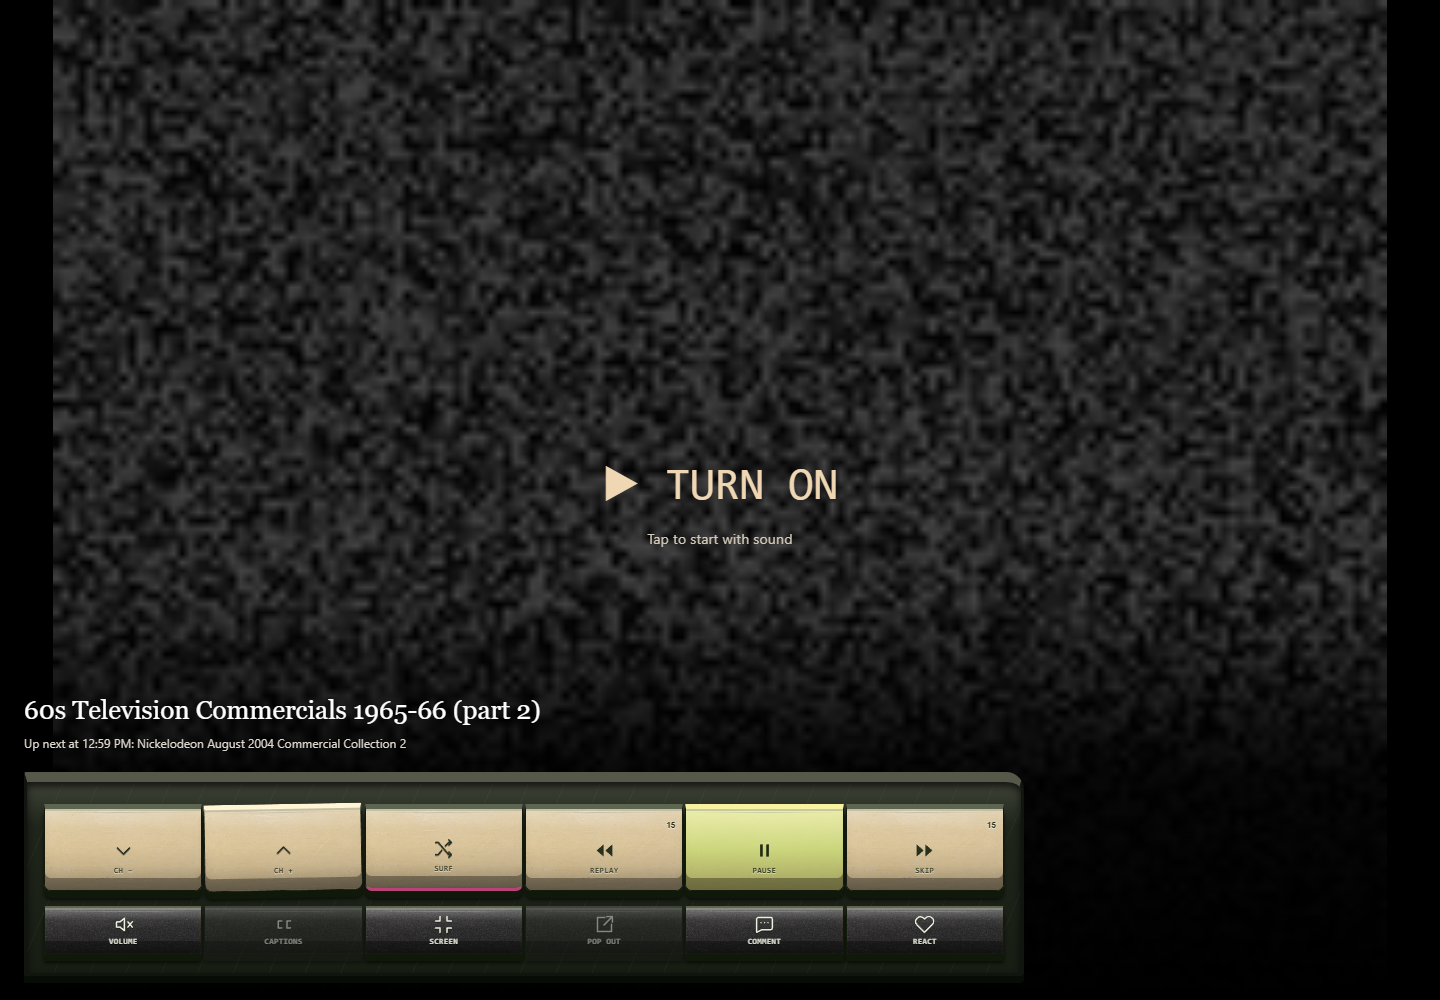
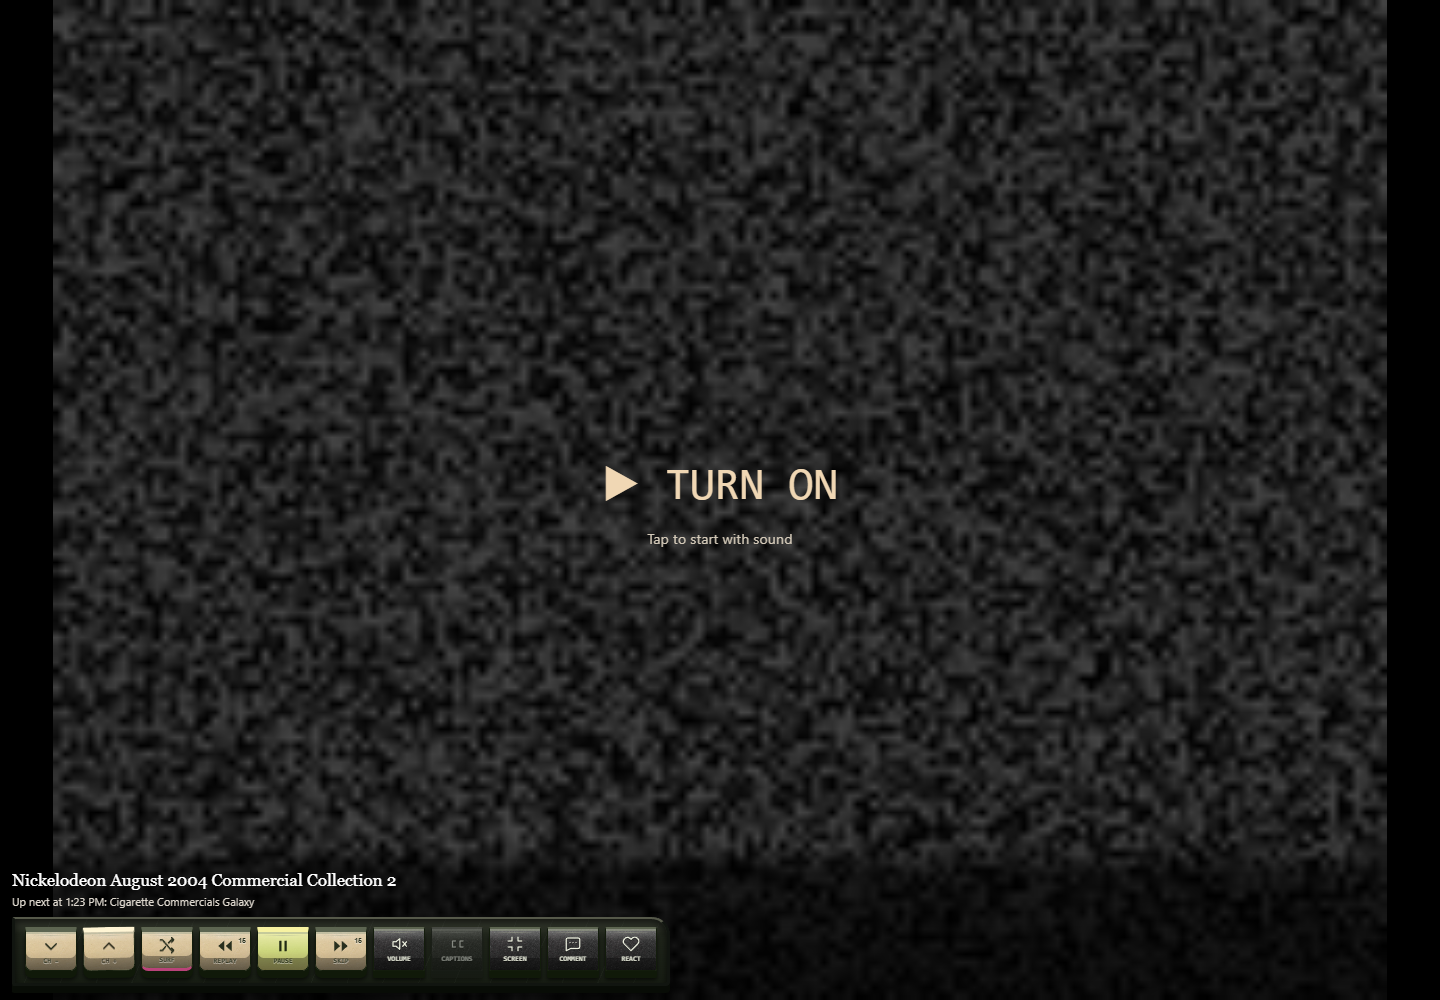
Compact fullscreen transport into a shallow themed strip

Changed region(s): [[0.0, 0.0, 0.9688, 0.992]]

diff --git a/assets/vcr-hardware.css b/assets/vcr-hardware.css
@@ -196,3 +196,31 @@ body[data-skin=theatre] #tvView .tv-transport :is(.btn,.watch-dock-button):is(:a
   body[data-skin=stadium] #tvView .tv-transport { grid-template-columns:repeat(8,minmax(0,1fr)); }
   body[data-skin=stadium] #tvView .tv-transport .watch-dock-button[aria-label=React] { grid-column:span 2; }
 }
+
+/* Fullscreen uses a shallow hardware strip rather than the full cabinet console. */
+body[data-skin] #tvView .fullscreen-controls>.tv-transport {
+ display:flex;flex-wrap:wrap;align-items:stretch;justify-content:flex-start;
+ width:fit-content;max-width:100%;gap:6px;margin:4px 0 0;padding:8px 10px 12px;
+ border-width:2px 3px 3px;grid-template-rows:none;
+}
+body[data-skin] #tvView .fullscreen-controls>.tv-transport :is(#pause,.btn,.watch-dock-button) {
+ flex:0 0 52px;width:52px;height:44px;min-width:44px;min-height:44px;
+ grid-column:auto;grid-row:auto;gap:3px;padding:4px 2px;justify-content:center;
+}
+body[data-skin] #tvView .fullscreen-controls>.tv-transport :is(#pause,.btn,.watch-dock-button) svg { width:18px;height:18px; }
+body[data-skin] #tvView .fullscreen-controls>.tv-transport :is(#pause,.btn,.watch-dock-button)::after { font-size:7px;letter-spacing:0; }
+body[data-skin] #tvView .fullscreen-controls>.tv-transport :is(#back,#fwd) small { top:5px;right:4px;font-size:7px; }
+body[data-skin] #tvView .fullscreen-controls>.tv-transport #popoutTv { display:none; }
+body[data-skin=theatre] #tvView .fullscreen-controls>.tv-transport :is(#pause,.btn,.watch-dock-button) { padding-bottom:10px; }
+body[data-skin=theatre] #tvView .fullscreen-controls>.tv-transport :is(#pause,.btn,.watch-dock-button)::before {
+ inset:0 auto auto 50%;width:29px;height:29px;border-width:2px;
+}
+body[data-skin=theatre] #tvView .fullscreen-controls>.tv-transport :is(#pause,.btn,.watch-dock-button) svg { top:7px;width:16px;height:16px; }
+body[data-skin=theatre] #tvView .fullscreen-controls>.tv-transport :is(#pause,.btn,.watch-dock-button)::after { height:8px; }
+body[data-skin=theatre] #tvView .fullscreen-controls>.tv-transport :is(#back,#fwd) small { top:4px;right:9px; }
+@media(max-width:640px) {
+ body[data-skin] #tvView .fullscreen-controls>.tv-transport {
+  display:grid;grid-template-columns:repeat(6,minmax(44px,1fr));width:min(100%,360px);gap:5px 4px;padding:6px 5px 10px;border-inline-width:2px;
+ }
+ body[data-skin] #tvView .fullscreen-controls>.tv-transport :is(#pause,.btn,.watch-dock-button) { width:100%; }
+}

diff --git a/assets/interface.css b/assets/interface.css
@@ -147,3 +147,13 @@ body[data-skin] #tvView .fullscreen-controls>.tv-transport { width:min(100%,1000
 }
 .player-fullscreen .fullscreen-controls { grid-template-columns:minmax(0,1fr); }
 .player-fullscreen .fullscreen-controls { overflow-x:hidden;overscroll-behavior:contain; }.player-fullscreen .fullscreen-title,.player-fullscreen .fullscreen-next { min-width:0;overflow-wrap:anywhere; }
+
+/* Keep only a narrow title and shallow fade above the compact fullscreen keys. */
+.player-fullscreen .fullscreen-controls {
+ gap:4px;padding:24px max(12px,env(safe-area-inset-right)) max(14px,env(safe-area-inset-bottom)) max(12px,env(safe-area-inset-left));
+ background:linear-gradient(transparent,#0009 28px,#000b);
+}
+.player-fullscreen .fullscreen-controls .fullscreen-title { font-size:17px;line-height:1.2;white-space:nowrap;overflow:hidden;text-overflow:ellipsis; }
+.player-fullscreen .fullscreen-controls .fullscreen-next { font-size:11px;white-space:nowrap;overflow:hidden;text-overflow:ellipsis; }
+@media(max-width:640px) { .player-fullscreen .fullscreen-controls { padding-inline:max(8px,env(safe-area-inset-left)) max(8px,env(safe-area-inset-right)); } }
+@media(max-height:500px) { .player-fullscreen .fullscreen-controls { padding-top:12px;padding-bottom:max(10px,env(safe-area-inset-bottom)); } }

diff --git a/index.html b/index.html
@@ -317,7 +317,7 @@ select:focus-visible, textarea:focus-visible { outline: 2px solid var(--amber); 
 .hint code { font-family: var(--osd); font-size: 1.05em; color: var(--ink); }
 @media (prefers-reduced-motion: reduce) { .screen canvas, .osd, .lower { transition: none; } }
 </style>
-<link rel="stylesheet" href="assets/interface.css?v=fullscreen-4">
+<link rel="stylesheet" href="assets/interface.css?v=fullscreen-compact-5">
 <link rel="stylesheet" href="assets/pixel-deck.css?v=2">
 <link rel="stylesheet" href="assets/modular-themes.css?v=1">
 <link rel="stylesheet" href="assets/theme-tvs.css?v=1">
@@ -327,7 +327,7 @@ select:focus-visible, textarea:focus-visible { outline: 2px solid var(--amber); 
 <link rel="stylesheet" href="assets/captions.css?v=caption-size-3">
 <link rel="stylesheet" href="assets/settings.css?v=theme-only-1">
 <link rel="stylesheet" href="assets/vcr-controls.css?v=fullscreen-4">
-<link rel="stylesheet" href="assets/vcr-hardware.css?v=fullscreen-4">
+<link rel="stylesheet" href="assets/vcr-hardware.css?v=fullscreen-compact-5">
 <link rel="stylesheet" href="assets/vcr-materials.css?v=fullscreen-4">
 </head>
 <body data-skin="pixel" data-tv-page="guide">

diff --git a/docs/fullscreen-transport.md b/docs/fullscreen-transport.md
@@ -6,3 +6,8 @@ The existing three-second idle fade, pointer/touch reveal, keyboard-focus protec
 
 Verified all nine skins at 1440x1000, 800x600, 390x844 and 844x390. Verified identical transport/video nodes, matching button finishes, return placement, idle hiding/reveal, volume-menu protection and native browser fullscreen exit. Settings and popout browser checks: 8 passed. Fullscreen browser checks: 2 passed.
 `node --test scripts/*.test.mjs`: 128 passed, 15 browser checks skipped in the default environment; dedicated browser runs above explicitly enabled Chrome.
+## Compact fullscreen refinement
+
+Fullscreen now uses 44px-tall keys in a shallow, content-width strip while retaining each skin's materials and shapes. Narrow phones use six columns and two rows. The oversized pause key and disabled pop-out key no longer consume fullscreen space. Reduced panel padding, title size, line wrapping and backdrop opacity keep more of the picture clear. The regular cabinet controls are unchanged.
+
+Browser checks passed across all nine skins at 1440x1000, 800x600, 320x700, 390x844 and 844x390. Asserted the bank remains within the viewport, at most 85px tall on desktop and 130px on phones, with at least 44px touch targets. Existing idle/menu and native-exit checks passed.
